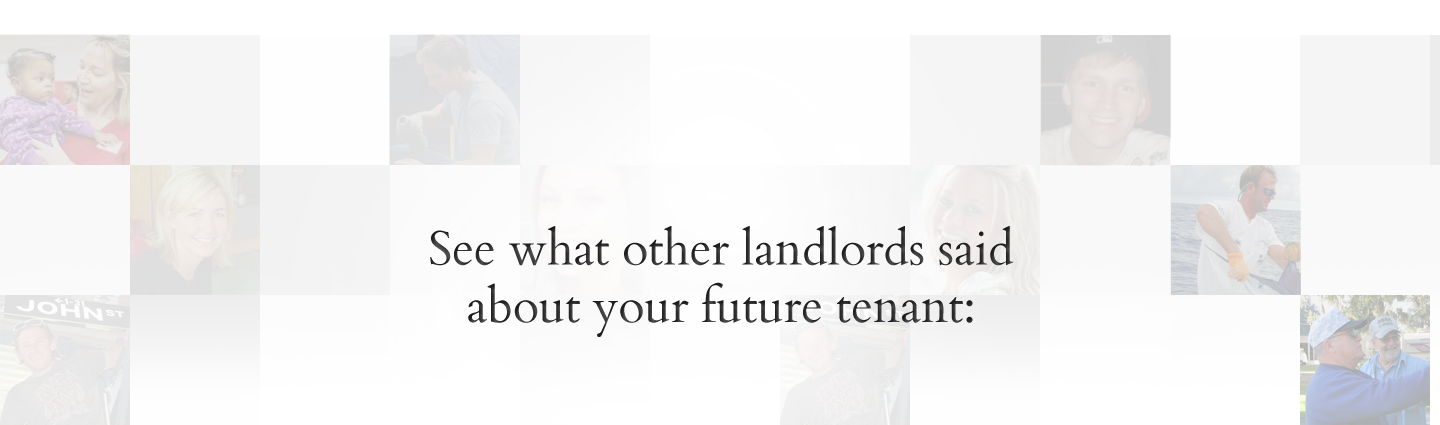
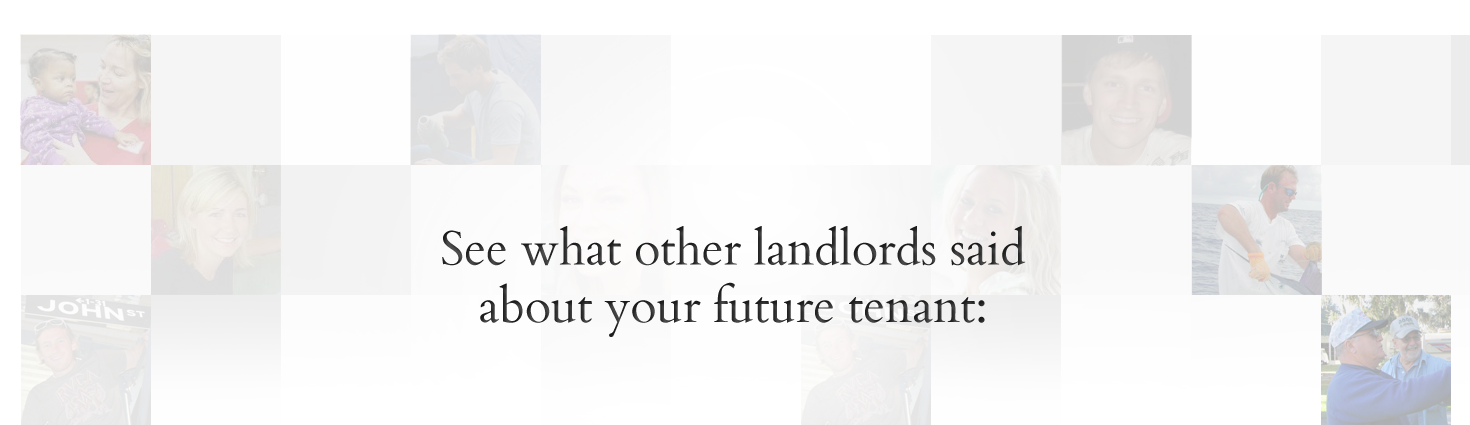
sdklfkl;dsfa

diff --git a/public/stylesheets/base.css b/public/stylesheets/base.css
@@ -142,7 +142,7 @@ footer {
 /* Home Page */
 
 .home-page {
-	background: url('../images/bg-home.png')repeat-x, url('../images/tile.gif') repeat;
+	background: url('../images/bg-home.png') top center no-repeat, url('../images/tile.gif') repeat;
 }
 #home h1 {
 	text-align: center;
@@ -202,6 +202,9 @@ footer {
 	position: relative;
 	background: url('../images/scorecard-blank.png');
 }
+	.result-public {
+		background:('../images/scorecard.png');
+	}
 	.result.teaser {
 		background: url('../images/scorecard.png');
 	}
@@ -228,8 +231,12 @@ footer {
 		.add-entry {
 			width: 195px;
 		}
-		.answers ul, .add-entry ul {
+		.add-entry ul, .add-entry ul {
 			padding: 25px 0 0 0;
+		}
+		.add-entry ul li {
+			font-size: 17px;
+			line-height: 31px;
 		}
 		.green {
 			color: #39b54a;
@@ -305,6 +312,28 @@ footer {
 		.existing-properties ul {
 			padding-top: 5px;
 		}
+	.results-header {
+		width: 600px;
+		height: 70px;
+		margin: 0 0 0 50px;
+		padding-top: 70px;
+	}
+	.row1 {
+		font-size: 36px;
+		line-height: 36px;
+	}
+	.result-property-name, .result-property-address, .result-city, .result-state, .result-zip {
+		float: left;
+		margin-right: 13px;
+		color: #ccc;
+	}
+	.see-more {
+		width: 100px;
+		height: 50px;
+		top: 65px;
+		right: 140px;
+		position: absolute;
+	}
 
 
 /* Search Results */
